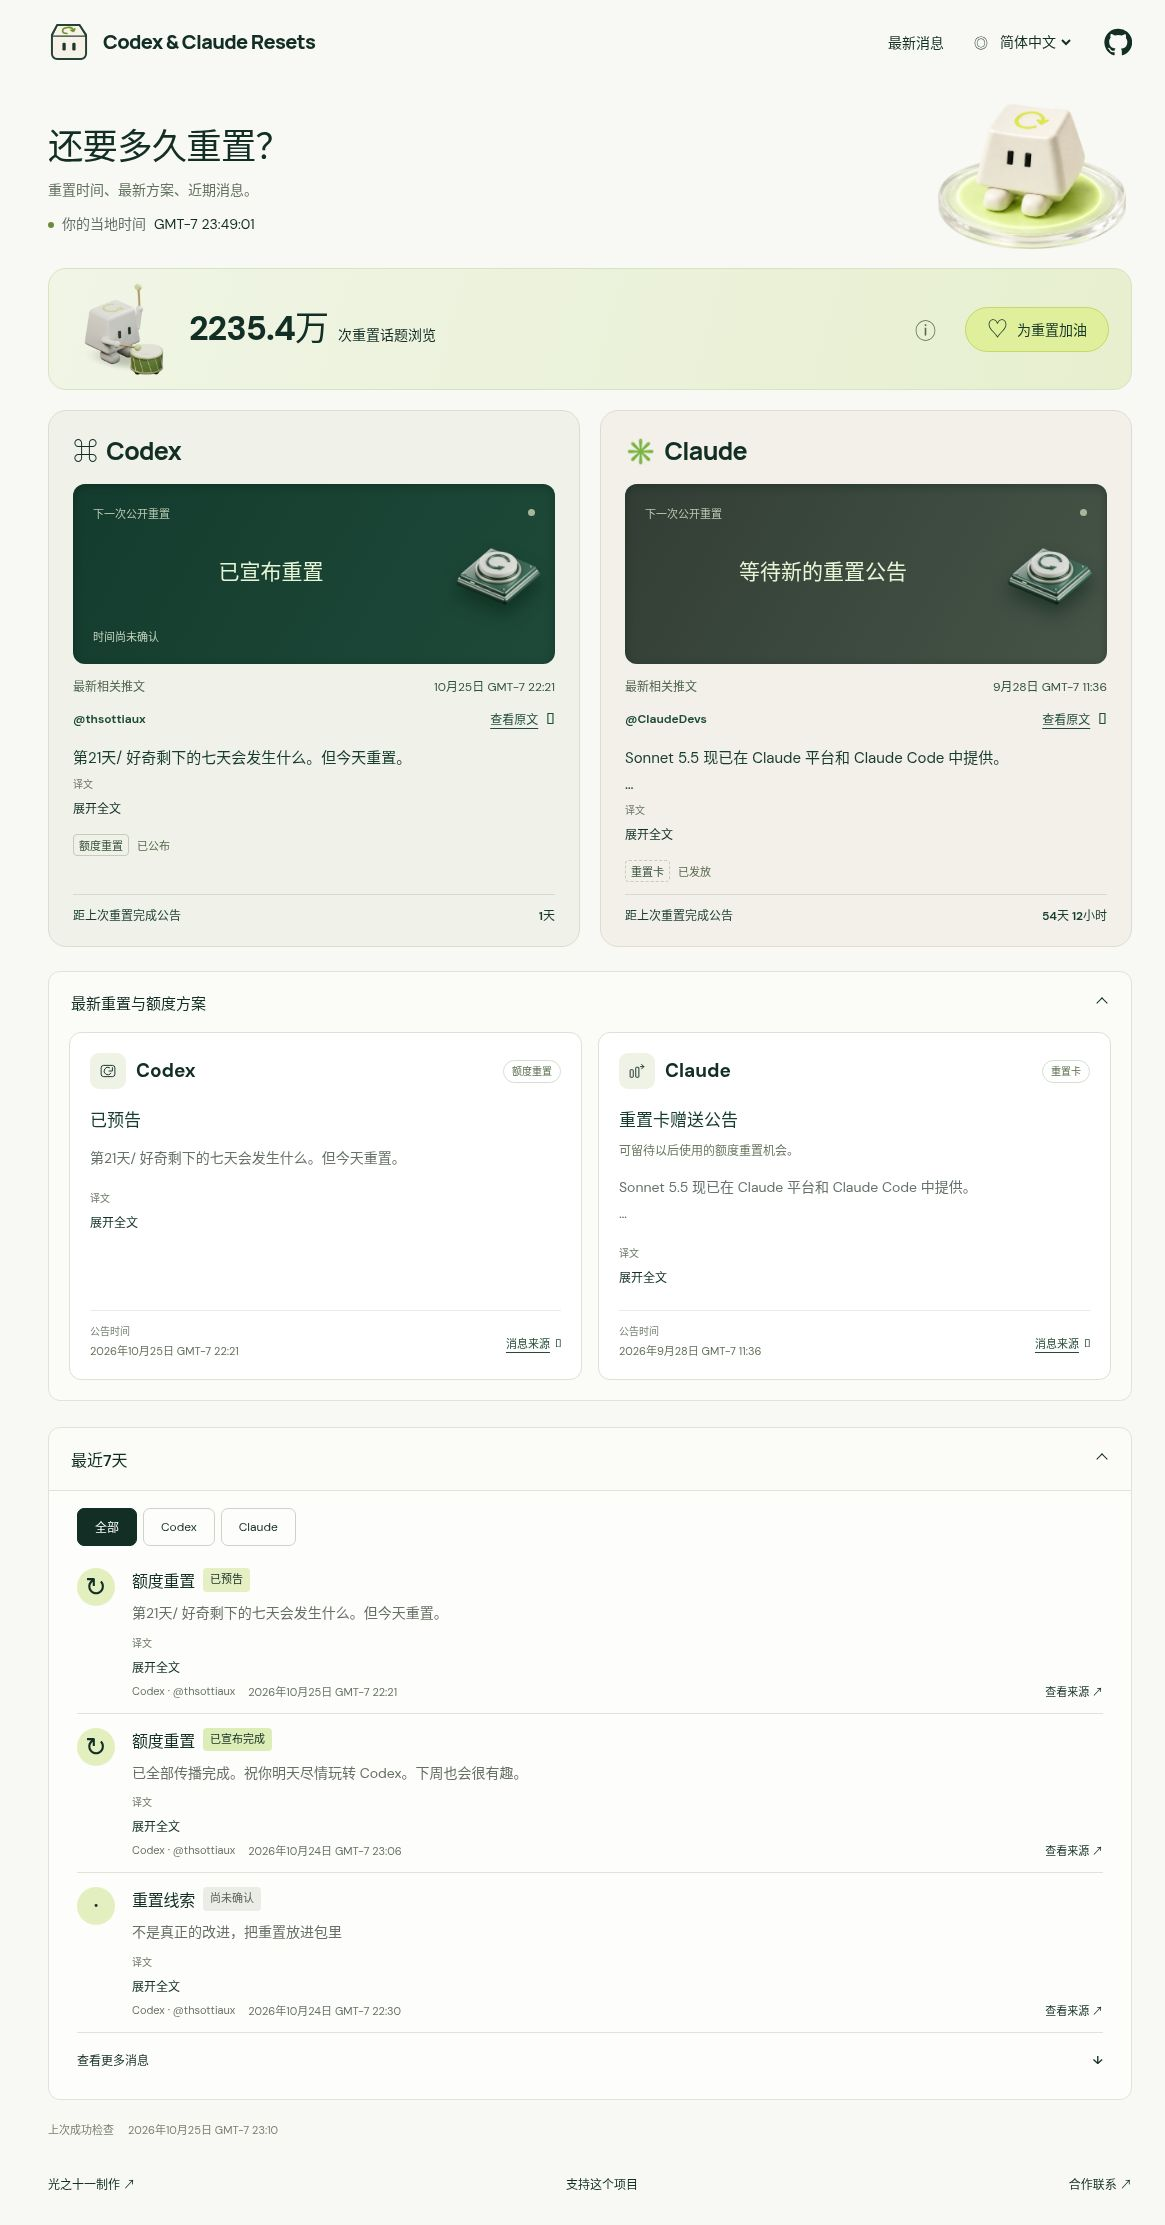
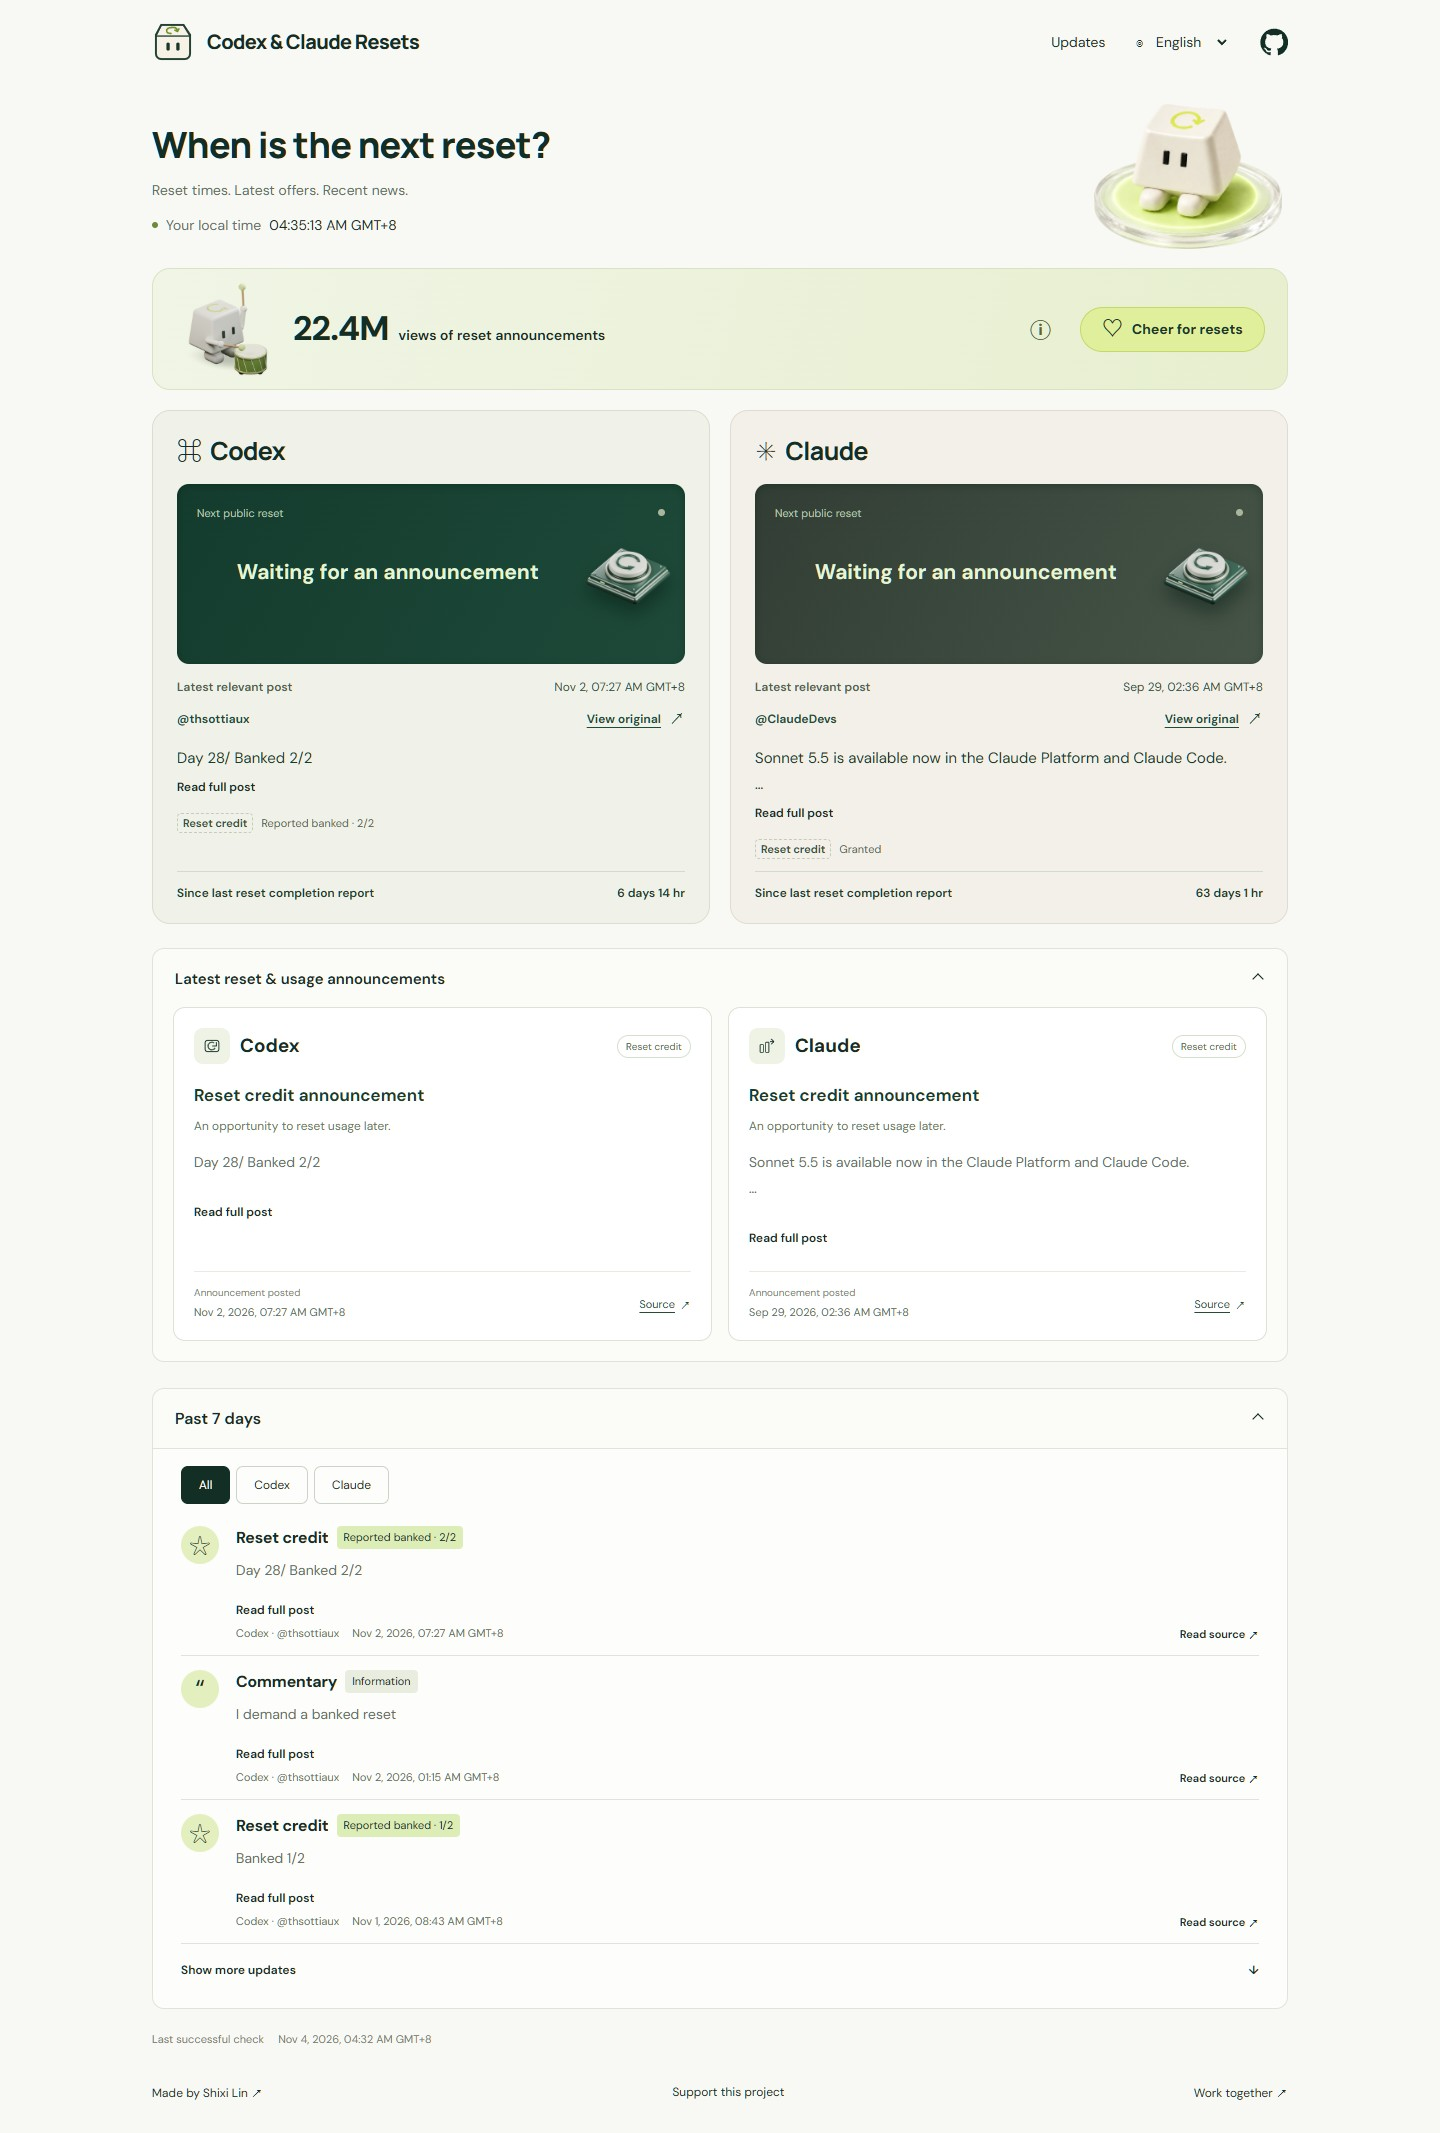
Capture verified production page after Claude publication repair

diff --git a/docs/claude-publication-guards-2026-11-03.md b/docs/claude-publication-guards-2026-11-03.md
@@ -9,3 +9,11 @@ The parser now anchors the entire reviewed paragraph, including its actual intro
 A publication projection removes unsupported current assertions from stale permanent-offer snapshots at build and browser hydration/refresh boundaries. It covers the actual old scope text as well as claim and additional obsolete fields. It preserves verification times and source URLs and does not mark stale evidence fresh. Historical promotions, unrelated messages and original source prose are retained.
 
 The build regression seeds a stale snapshot, invokes the real build, and inspects dist/platforms.json and every page-data payload across all generated pages. It also checks unchanged input records, source dates, health and historical promotion data. The live official page passes the stricter parser. Production release, final page checks and a newly pinned README screenshot follow the normal verified merge.
+
+## Production validation
+
+PR #55 merged normally as a8e492fdd7366a1f47708505ed7b1605643987d6 after CI run 41712209999 passed 174 tests and the build. Automated review found only the screenshot follow-up, completed with the actual production capture below; no GitHub approval or protection bypass was used.
+
+The first production run 41712866948 passed the strict official terms check but correctly retained degraded AnthropicAI timeline HTTP 404 coverage. One fresh existing-workflow run, 41713381533, succeeded with all six accounts and ten official embed checks. Its data commit is acdc2b15f934bff43f4bda04e5d06ab85adf3113, complete check time 2026-11-03T20:32:26.080Z and official promotion verification 20:32:36.438Z. Vercel production deployment AiqiVpy1ay3dmpPvpTUSEsDAycfK succeeded. The unrelated Codex review item remains. Upstream availability is not guaranteed by this successful scan.
+
+Public platforms.json and the nine locale page-data payloads were checked at 20:32:12.988Z for supported fields only. Actual production English/Chinese pages at 1440 and 390 pixels were checked at 2026-11-03T20:35:17.004Z against the newly deployed full-coverage data: no page errors, missing images, overflow or health warning; source links and real successful-check time matched. Chrome rendered unmodified production responses fetched through the working Node network proxy. docs/screenshot.jpg is the new full-page production capture; README pins its exact image commit. Local detailed evidence is in .qa/production-verification.json and .qa/published-data-verification.json.
